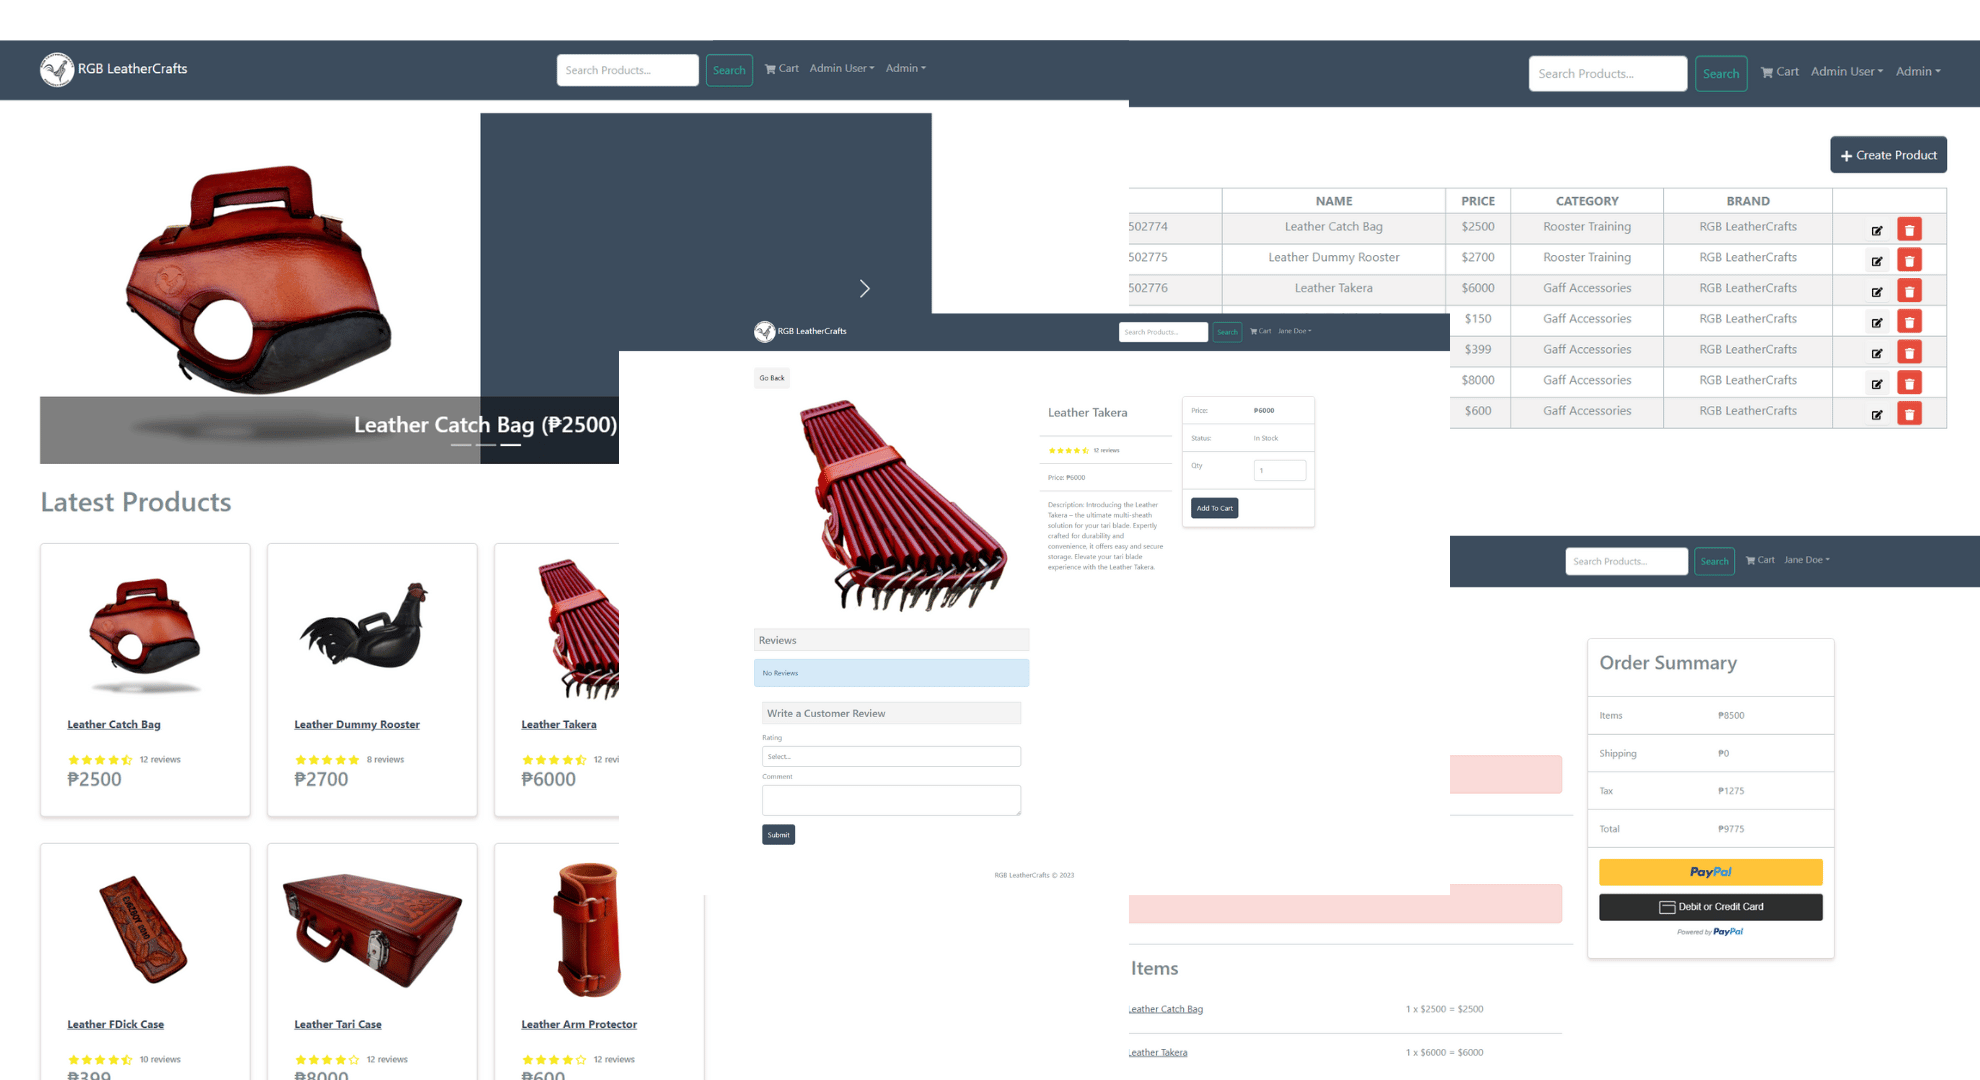
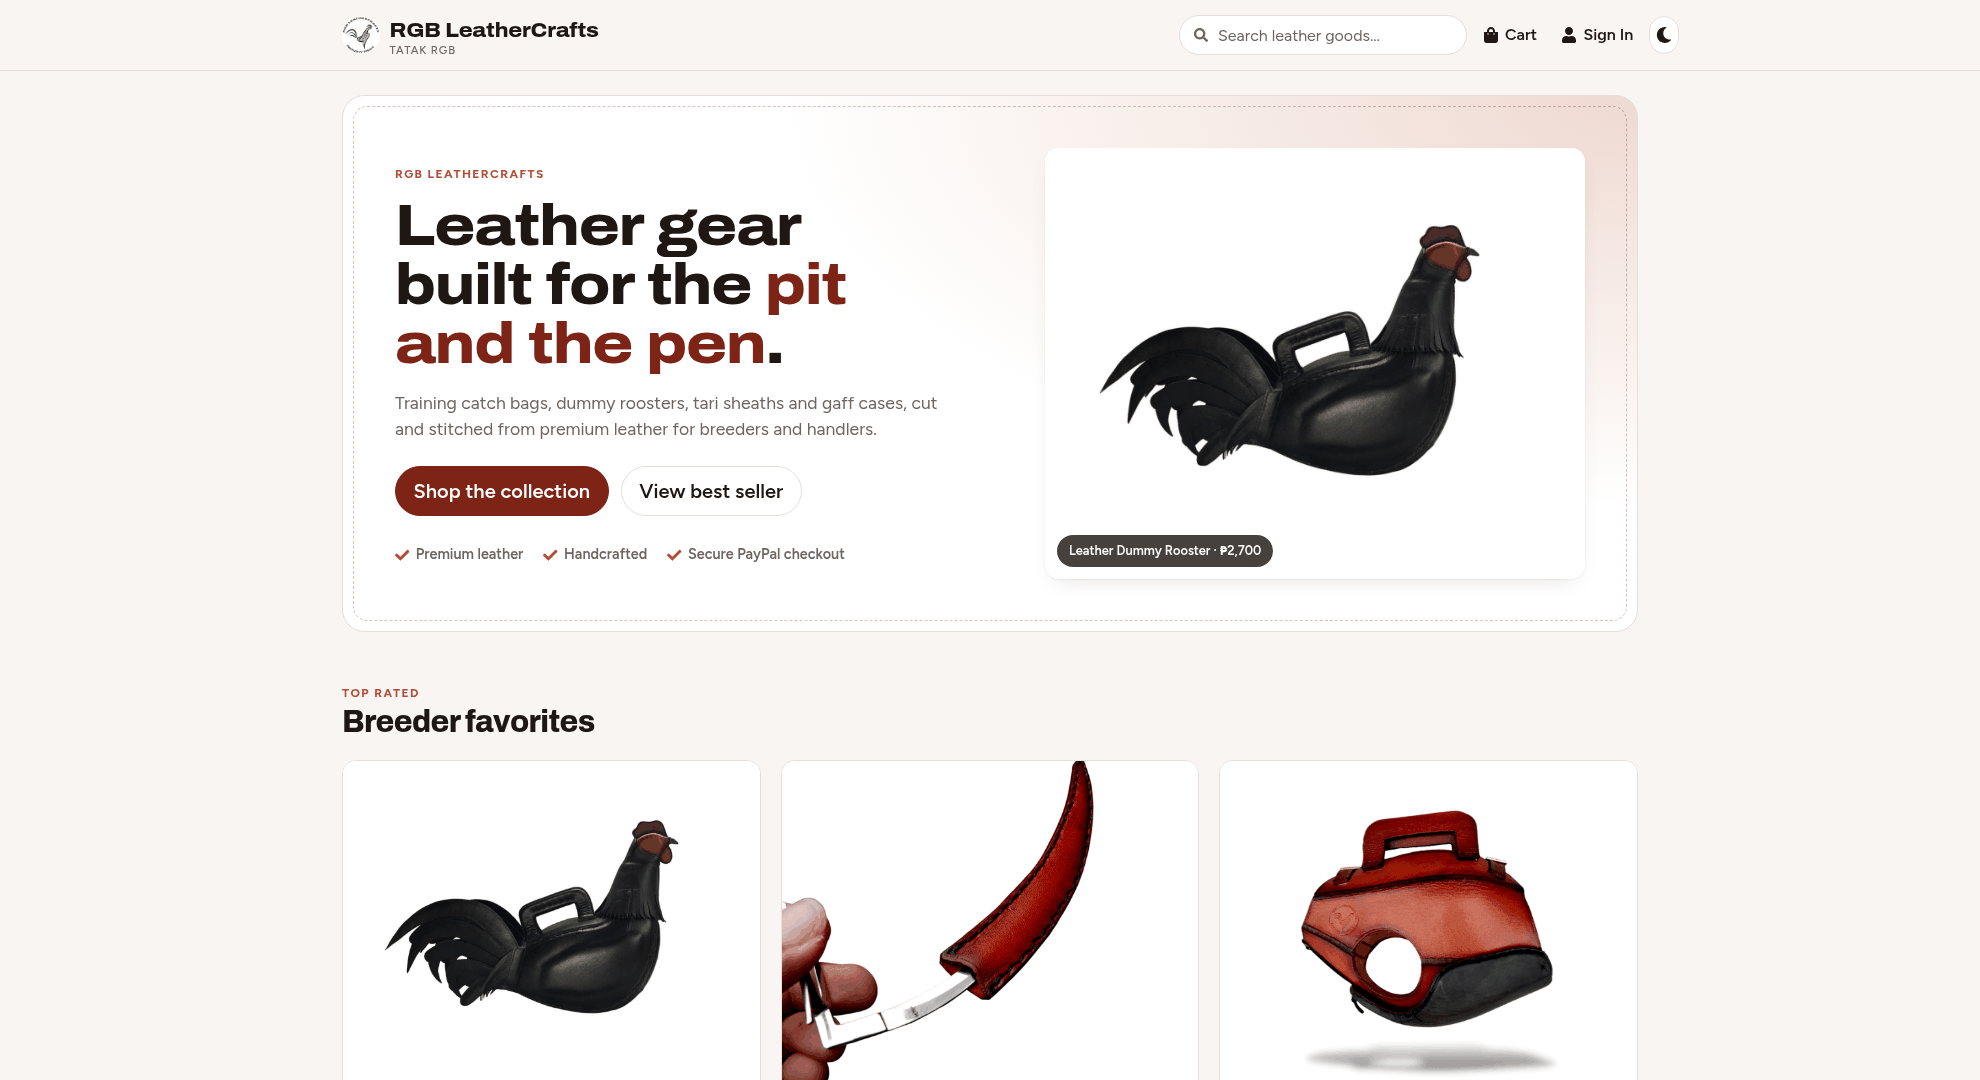
Update readme, add .env.example, refresh screenshot
- readme: replace removed carousel with top rated showcase, add light/dark
  mode, tech stack, and setup (env vars, install, run, build, seeding)
- .env.example: every variable the backend reads, with placeholders
- screens.png: new storefront design (1980x1080)

diff --git a/readme.md b/readme.md
@@ -8,7 +8,7 @@
 
 - Full featured shopping cart
 - Product reviews and ratings
-- Top products carousel
+- Top rated products showcase
 - Product pagination
 - Product search feature
 - User profile with orders
@@ -18,4 +18,71 @@
 - Mark orders as delivered option
 - Checkout process (shipping, payment method, etc)
 - PayPal / credit card integration
+- Light and dark mode
 - Database seeder (products & users)
+
+## Tech Stack
+
+- **Backend:** Node.js 22+, Express 5, MongoDB with Mongoose 9, JWT auth (HTTP-only cookie)
+- **Frontend:** React 19, Vite 8, Redux Toolkit 2 (RTK Query), React Router 8, React Bootstrap with Bootstrap 5.3
+- **Payments:** PayPal
+
+## Getting Started
+
+### Environment variables
+
+Copy `.env.example` to `.env` in the project root and fill in your values:
+
+```
+NODE_ENV=development
+PORT=5000
+MONGO_URI=your-mongodb-connection-string
+JWT_SECRET=change-me
+PAGINATION_LIMIT=8
+PAYPAL_CLIENT_ID=your-paypal-client-id
+PAYPAL_APP_SECRET=your-paypal-app-secret
+PAYPAL_API_URL=https://api-m.sandbox.paypal.com
+```
+
+### Install dependencies
+
+```
+npm install
+npm install --prefix frontend
+```
+
+### Run
+
+```
+# Frontend (:3000) and backend (:5000) together
+npm run dev
+
+# Backend only
+npm run server
+```
+
+The Vite dev server proxies `/api` and `/uploads` to the backend.
+
+### Build & deploy
+
+```
+# Installs dependencies and builds the frontend into frontend/dist
+npm run build
+
+# Serves the API and frontend/dist (set NODE_ENV=production)
+npm start
+```
+
+### Seed the database
+
+```
+# Import sample products and users
+npm run data:import
+
+# Destroy all data
+npm run data:destroy
+```
+
+## License
+
+MIT
